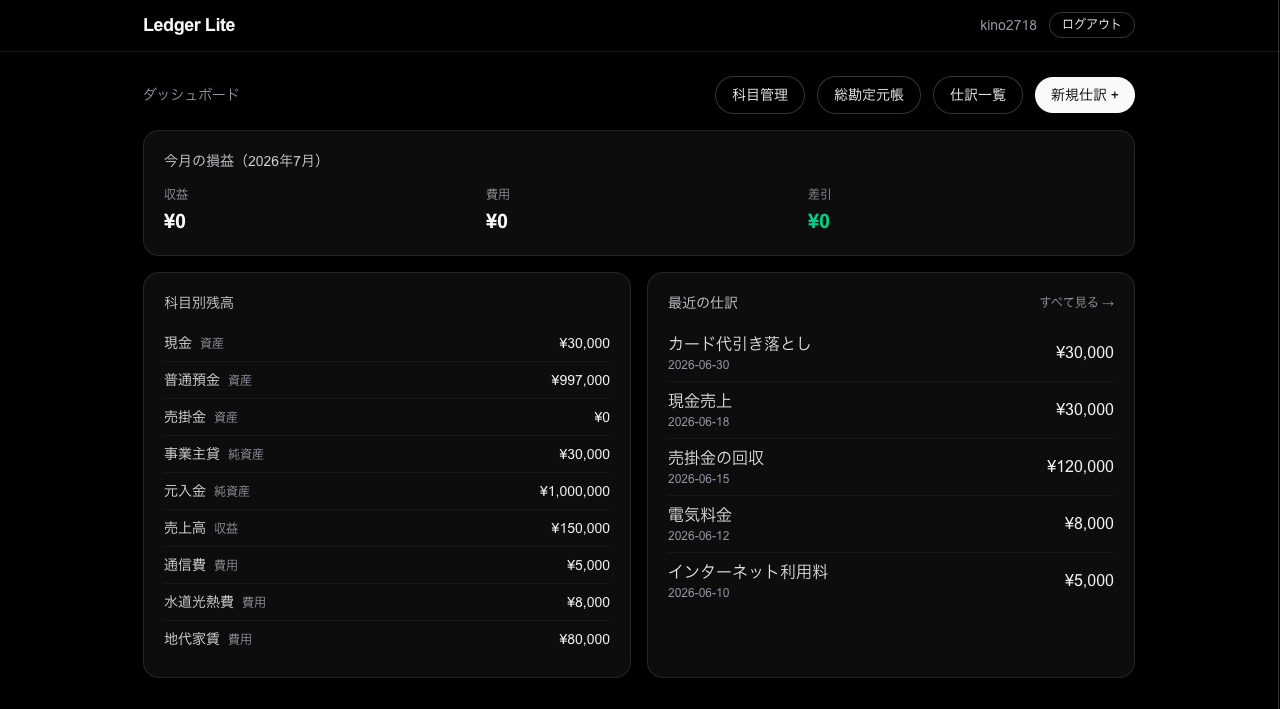
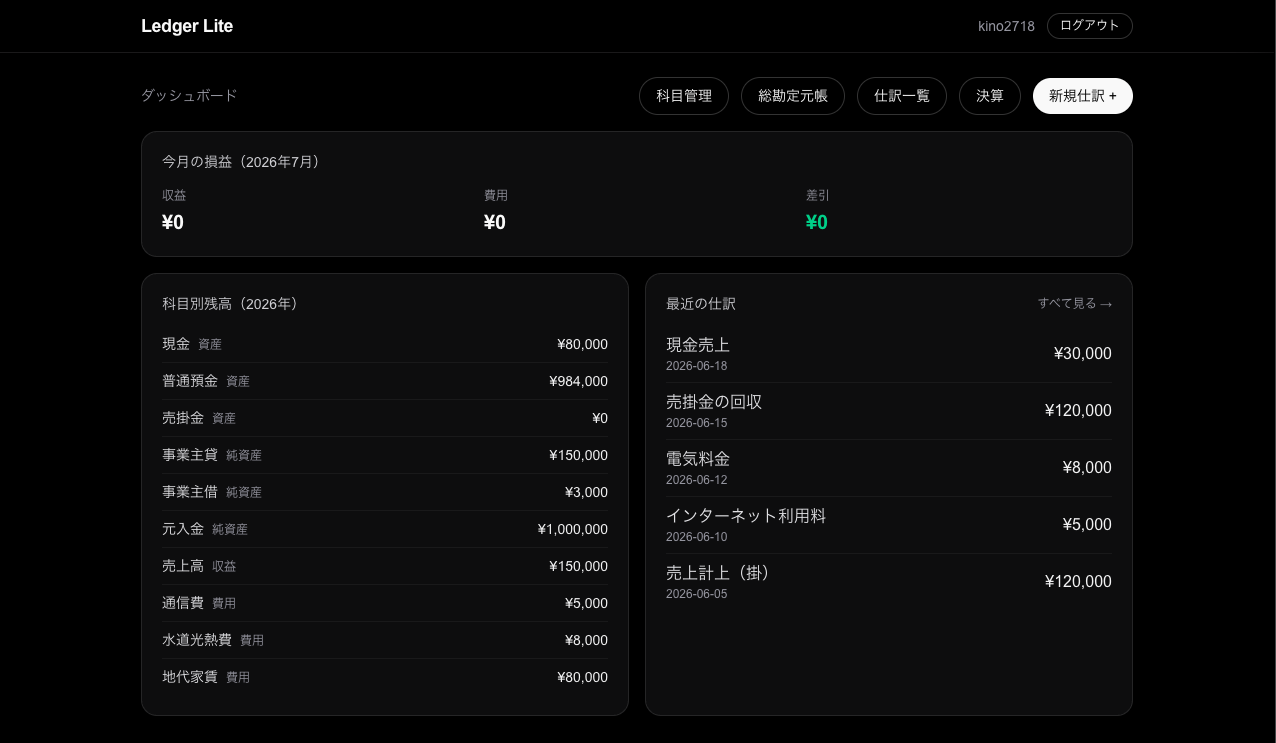
README と DATABASE.md に決算機能を反映する
README に帳簿・レポートと年度締めの説明を追記し、未実装の項を整理する。
損益計算書・貸借対照表・決算のスクリーンショットを追加し、
既存のスクリーンショットも年セレクタ入りの表示に差し替える。
DATABASE.md に YearClosing テーブルの仕様（繰越仕訳・締めの順序・
集計範囲のルール・締め済みの年のロック）を追記する。

diff --git a/README.md b/README.md
@@ -10,6 +10,8 @@
 - 複式簿記のドメインに沿った構成（勘定科目 / 補助科目 / 仕訳ヘッダー / 仕訳明細）
 - ダッシュボードで「今月の損益」「科目別残高」「最近の仕訳」を表示
 - 仕訳入力フォーム（借方・貸方を複数行で入力。貸借一致や科目の整合を検証して保存。スマホ対応）
+- 帳簿・レポート（総勘定元帳・合計残高試算表・損益計算書・貸借対照表。年単位の表示切替に対応）
+- 年度締め（決算）。翌年期首の繰越仕訳を自動生成し、締め済みの年の仕訳はロック
 - メールアドレス＋パスワードによるログイン認証
 - 金額は円単位の整数で保持し、集計の丸め誤差が出ない設計
 - 残高はテーブルに持たず、仕訳明細から都度集計
@@ -22,7 +24,7 @@
 
 ![ダッシュボード](./docs/screenshot-dashboard.png)
 
-**仕訳一覧** — 登録済みの仕訳を仕訳帳スタイルで表示します。各仕訳から編集・削除できます。
+**仕訳一覧** — 登録済みの仕訳を仕訳帳スタイルで表示します。年で絞り込みでき、各仕訳から編集・削除できます。
 
 ![仕訳一覧](./docs/screenshot-journal.png)
 
@@ -30,7 +32,7 @@
 
 ![仕訳入力](./docs/screenshot-journal-new.png)
 
-**総勘定元帳（科目一覧）** — 科目を選んで元帳を表示します。各科目の現在残高も一覧できます。
+**総勘定元帳（科目一覧）** — 科目を選んで元帳を表示します。選んだ年の残高を科目別に一覧でき、試算表・損益計算書・貸借対照表への入口にもなっています。
 
 ![総勘定元帳（科目一覧）](./docs/screenshot-ledger.png)
 
@@ -41,6 +43,18 @@
 **合計残高試算表** — 科目別の借方・貸方の合計と残高を集計します。貸借の総計が一致するか検算できます。
 
 ![合計残高試算表](./docs/screenshot-ledger-trial-balance.png)
+
+**損益計算書** — 収益・費用を科目別に集計し、差引損益（青色申告特別控除前の所得）を表示します。帳簿・レポートは年セレクタで年単位の表示に切り替えられます。
+
+![損益計算書](./docs/screenshot-ledger-profit-loss.png)
+
+**貸借対照表** — 年末時点の資産・負債・純資産を借方・貸方に並べ、損益を含めて貸借が一致するか検算します。
+
+![貸借対照表](./docs/screenshot-ledger-balance-sheet.png)
+
+**決算** — 年ごとの締め状態を一覧し、損益と繰越仕訳のプレビューを確認して年を締められます。締めると翌年期首の繰越仕訳が自動生成され、締め済みの年の仕訳はロックされます。
+
+![決算](./docs/screenshot-closing.png)
 
 **科目管理（一覧）** — 勘定科目を分類・通常残高の向きとあわせて一覧します。ここから科目の追加・編集に進みます。
 
@@ -57,8 +71,8 @@
 ## 開発状況
 
 本アプリは現在開発中です。現時点では、勘定科目・補助科目の管理・
-ダッシュボード表示・仕訳の入力・一覧・編集・削除・総勘定元帳・試算表までを
-実装しています。
+ダッシュボード表示・仕訳の入力・一覧・編集・削除・総勘定元帳・試算表・
+損益計算書・貸借対照表・年度締め（決算）までを実装しています。
 
 実装済み:
 
@@ -68,14 +82,22 @@
 - 仕訳の一覧・編集・削除（`/journal`。仕訳帳スタイルで一覧表示し、各仕訳を編集・削除）
 - 総勘定元帳・補助元帳（`/ledger`。科目別に明細と残高を表示。補助科目で絞り込み可能）
 - 合計残高試算表（`/ledger/trial-balance`。科目別の借方・貸方の合計と残高を集計）
+- 損益計算書（`/ledger/profit-loss`。収益・費用を科目別に集計し、差引損益を表示）
+- 貸借対照表（`/ledger/balance-sheet`。年末時点の資産・負債・純資産と損益を表示し、貸借を検算）
+- 年度フィルタ（仕訳一覧・元帳・試算表・各レポートを年単位で表示。会計期間は暦年固定。
+  年で絞った元帳には前期繰越行を表示）
+- 年度締め（`/closing`。損益と繰越額のプレビューを確認して年を締めると、
+  翌年 1/1 付の繰越仕訳を自動生成。締め解除で元に戻せる）
+- 締め済みの年のロック（締めた年以前の仕訳は作成・更新・削除を拒否。
+  繰越仕訳も保護され、締め解除でのみ消える）
 - 勘定科目・補助科目の管理画面（`/accounts`。追加・編集・有効/無効の切替。
   仕訳で使用中の科目は分類・通常残高の向きを変更不可。未使用のものだけ削除可）
-- データモデル（勘定科目・補助科目・仕訳）と初期データ投入（seed）
-- 残高・損益・元帳・試算表の集計ロジック、仕訳入力の検証ロジック
+- データモデル（勘定科目・補助科目・仕訳・年度締め）と初期データ投入（seed）
+- 残高・損益・元帳・試算表・繰越の集計ロジック、仕訳入力の検証ロジック
 
 未実装（今後の予定）:
 
-- 会計期間・決算（期首繰越、期間で絞った帳簿・レポート）
+- 消費税の集計（税区分は仕訳明細に保持するのみ。課税事業者になったら追加する想定）
 
 ## 技術構成
 
@@ -225,13 +247,15 @@ $ npm start       # ビルド済みアプリの起動
 app/                 Next.js App Router（ページ・ルート）
   page.tsx           ダッシュボード（トップページ）
   journal/           仕訳の入力・一覧・編集・削除（ページ・フォーム・Server Action）
-  ledger/            総勘定元帳・補助元帳・合計残高試算表
+  ledger/            総勘定元帳・補助元帳・合計残高試算表・損益計算書・貸借対照表
+  closing/           決算（年度の締め・締め解除とプレビュー）
   accounts/          勘定科目・補助科目の管理（一覧・追加・編集・削除）
   login/             ログインページ
   api/auth/          Auth.js のルートハンドラ
 lib/
-  ledger/            残高・損益の集計（ドメインの純粋ロジック）
+  ledger/            残高・損益の集計、会計期間（ドメインの純粋ロジック）
   journal/           仕訳の検証・保存・取得クエリ
+  closing/           年度締め（繰越仕訳の計算・締めと解除・締め状態の取得）
   accounts/          勘定科目・補助科目の検証・保存・取得クエリ
   prisma.ts          Prisma クライアント
   session.ts         セッション確認
